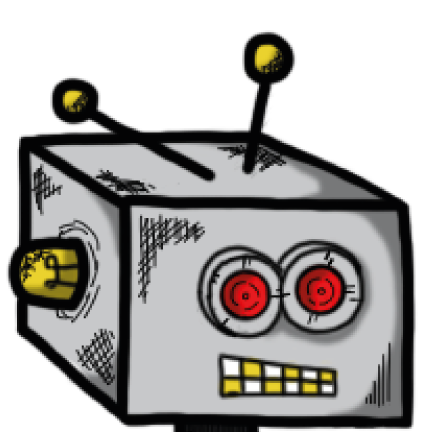
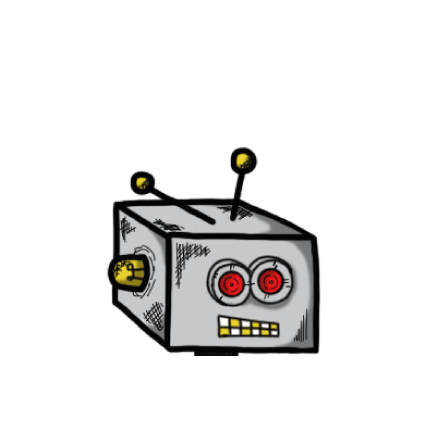
avancement

diff --git a/src/GameDevSoftware/modules/retrospaceadventure/scenes/Retrospacegameadventuredialogscene.tsx b/src/GameDevSoftware/modules/retrospaceadventure/scenes/Retrospacegameadventuredialogscene.tsx
@@ -1,7 +1,11 @@
 // https://www.freepik.com/free-vector/different-aliens-monster-transparent-background_20829475.htm#query=alien%20drawing&position=0&from_view=search
 // import AnimatedText from "react-animated-text-content";
 import { ThemeProvider } from "styled-components";
-import { ImgComponent, PageComponent } from "../../../../components";
+import {
+  ImgComponent,
+  PageComponent,
+  SpriteComponent,
+} from "../../../../components";
 import { useAssets, useGameObjects } from "../../../../hooks";
 import { SceneComponentProps } from "../../../../types";
 import {
@@ -42,6 +46,8 @@ const Retrospacegameadventuredialogscene: RetrospacegameadventuredialogsceneProp
     const [cards, setCards] = useState<RetrospaceadventureCard[]>([]);
     const [showCards, setShowCards] = useState<boolean>(false);
     const [showMiniGame, setShowMiniGame] = useState<MiniGameType | null>(null);
+    const [showDialogAnimation, setShowDialogAnimation] =
+      useState<boolean>(false);
 
     const { getAssetImg } = useAssets();
     const { getGameObject } = useGameObjects();
@@ -99,26 +105,40 @@ const Retrospacegameadventuredialogscene: RetrospacegameadventuredialogsceneProp
       );
     }, [setBackgroundColor, getAssetImg]);
 
+    useEffect(() => {
+      setTimeout(() => setShowDialogAnimation(true), 1000);
+    }, []);
+
     return (
       <ThemeProvider theme={{ ...globalTheme, ...fightTheme }}>
         <PageComponent maxSize={maxSizeGameContainer}>
           <ContainerComponent>
             {Enemy && (
               <ImageContainer>
-                <ImgComponent
-                  className="animate__animated animate__fadeInUp"
-                  src={getAssetImg(Enemy.image)}
-                  alt=""
-                />
+                {!showDialogAnimation && (
+                  <ImgComponent
+                    className="animate__animated animate__fadeInUp animate__fast"
+                    src={getAssetImg(Enemy.image)}
+                    alt=""
+                  />
+                )}
+                {Enemy.imageDialog && (
+                  <SpriteComponent
+                    {...Enemy.imageDialog}
+                    show={showDialogAnimation}
+                  />
+                )}
               </ImageContainer>
             )}
-            <RetrospacegameadventuredialogsceneTextComponent
-              _actions={_actions}
-              minigames={minigames}
-              textContent={textContent}
-              onClickCards={() => setShowCards(true)}
-              onClickMinigame={(minigame) => setShowMiniGame(minigame)}
-            />
+            {showDialogAnimation && (
+              <RetrospacegameadventuredialogsceneTextComponent
+                _actions={_actions}
+                minigames={minigames}
+                textContent={textContent}
+                onClickCards={() => setShowCards(true)}
+                onClickMinigame={(minigame) => setShowMiniGame(minigame)}
+              />
+            )}
             {showCards && Enemy && (
               <RetrospacegameadventuredialogsceneCardContainer
                 cards={cards}

diff --git a/src/components/SpriteComponent/index.tsx b/src/components/SpriteComponent/index.tsx
@@ -2,21 +2,6 @@ import { useCallback, useEffect, useState } from "react";
 import styled from "styled-components";
 import { useAssets } from "../../hooks";
 
-const SpriteComponentContainer = styled.div<{
-  width: number;
-  height: number;
-  background: string;
-  backgroundPosition: number;
-  style: React.CSSProperties | "";
-}>`
-  width: ${({ width }) => width}px;
-  height: ${({ height }) => height}px;
-  background: url("${({ background }) => background}");
-  background-position: ${({ backgroundPosition }) => backgroundPosition * -1}px
-    0px;
-  ${({ style }) => (typeof style === "string" ? style : "")}
-`;
-
 type SpriteComponentProps = {
   width: number;
   timeBeetweenSprite: number;
@@ -24,11 +9,32 @@ type SpriteComponentProps = {
   image: string;
   maxFrame: number;
   loop?: boolean;
+  show?: boolean;
   onFinish?: () => void;
 } & Pick<
   React.DetailedHTMLProps<React.HTMLAttributes<HTMLDivElement>, HTMLDivElement>,
   "style"
 >;
+
+const SpriteComponentContainer = styled.div<
+  // width: number;
+  // height: number;
+  // background: string;
+  // backgroundPosition: number;
+  // style: React.CSSProperties | "";
+  Pick<SpriteComponentProps, "width" | "height" | "show" | "style"> & {
+    background: string;
+    backgroundPosition: number;
+  }
+>`
+  width: ${({ width }) => width}px;
+  height: ${({ height }) => height}px;
+  background: url("${({ background }) => background}");
+  background-position: ${({ backgroundPosition }) => backgroundPosition * -1}px
+    0px;
+  visibility: ${({ show }) => (show ? "visible" : "hidden")};
+  ${({ style }) => (typeof style === "string" ? style : "")}
+`;
 
 const SpriteComponent: React.FC<SpriteComponentProps> = (props) => {
   const {
@@ -39,6 +45,7 @@ const SpriteComponent: React.FC<SpriteComponentProps> = (props) => {
     maxFrame,
     loop,
     style = {},
+    show = true,
     onFinish,
   } = props;
   const { getAssetImg } = useAssets();
@@ -90,6 +97,7 @@ const SpriteComponent: React.FC<SpriteComponentProps> = (props) => {
       background={getAssetImg(image)}
       backgroundPosition={backgroundPosition}
       style={style}
+      show={show}
     />
   );
 };

diff --git a/src/GameDevSoftware/modules/retrospaceadventure/scenes/types.ts b/src/GameDevSoftware/modules/retrospaceadventure/scenes/types.ts
@@ -95,6 +95,7 @@ export type RetrospaceadventureCard = {
 export type RetrospaceadventureCharacter = {
   name: string;
   image: string;
+  imageDialog?: RestrospaceSpriteType;
   imageIdle: RestrospaceSpriteType;
   imageDamage: RestrospaceSpriteType;
   character_type: "hero" | "enemy";
